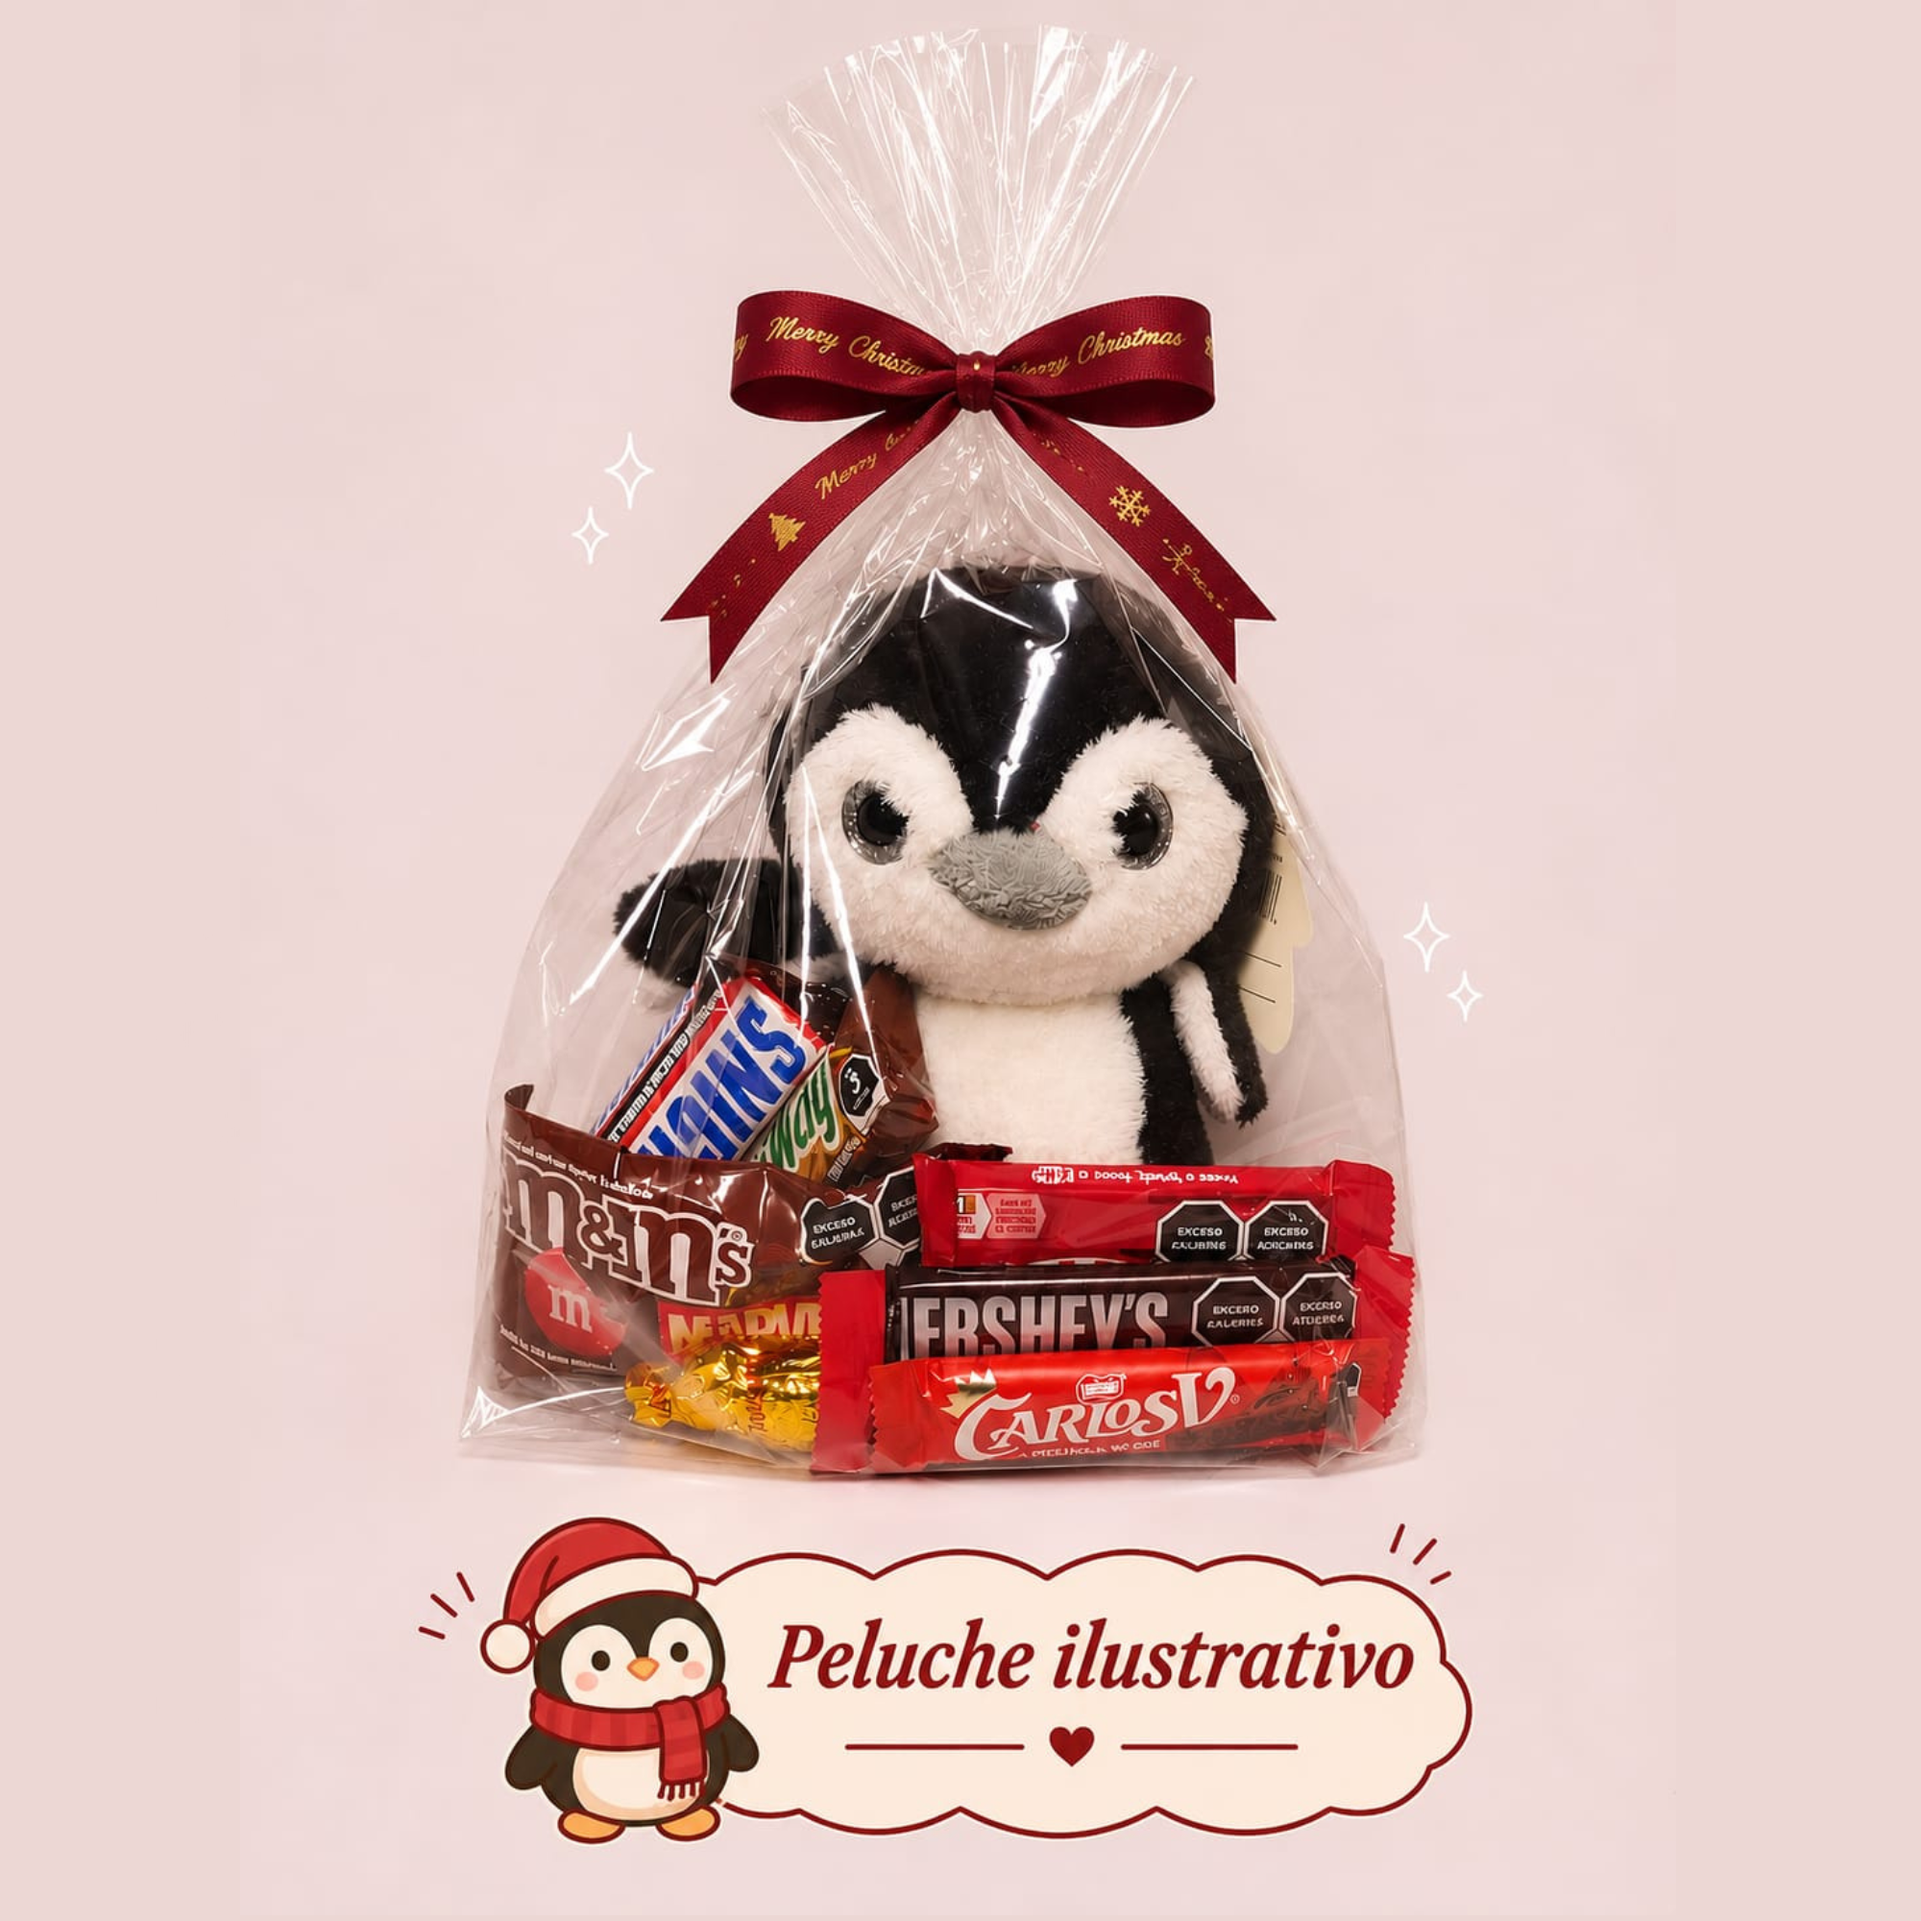
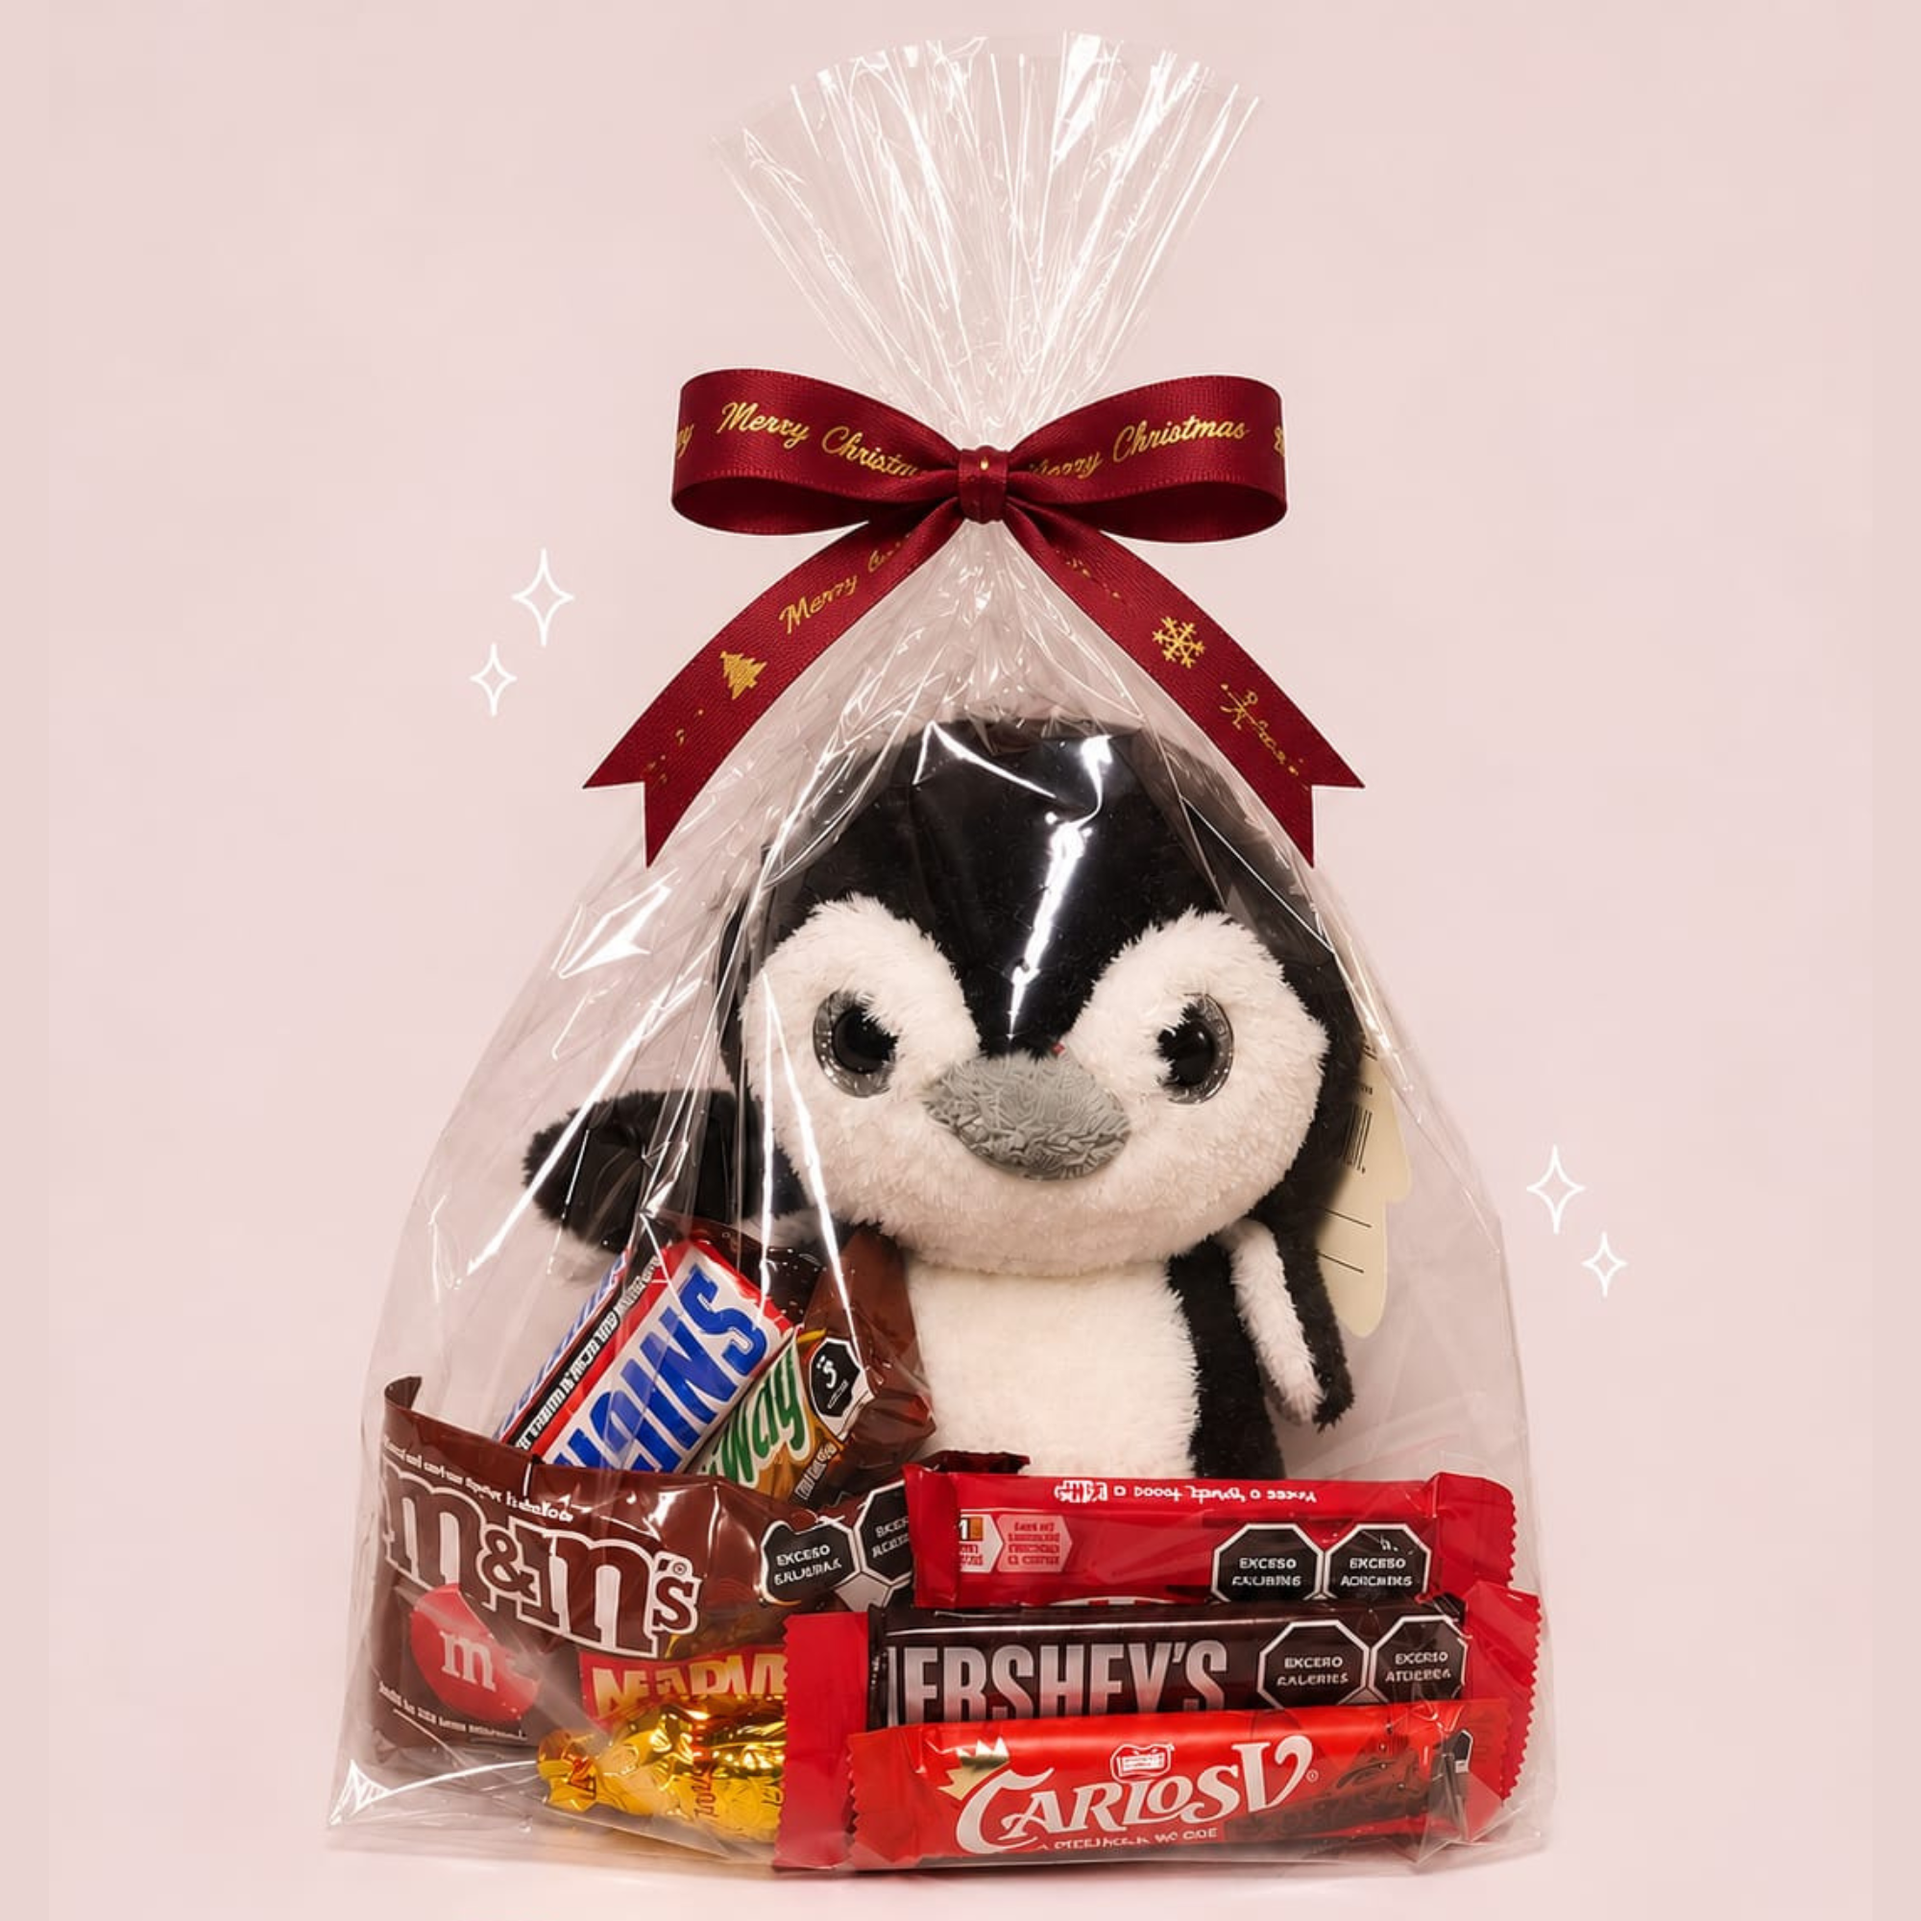
Actualiza fotografias de Evermore

diff --git a/index.html b/index.html
@@ -252,7 +252,7 @@ const PRODUCTS = {
   ],
   bolos: [
     {id:"b1", s:"gift", n:"Bolo original", d:"Incluye todos menos dos tipos de chocolate. Puedes agregar extras.", p:150, t:"Arma el tuyo", build:{excludeChocs:["kinder","hersheyslux"]}, img:["bolooriginal.png"]},
-    {id:"b2", s:"orn", n:"Bolo especial", d:"Incluye todos menos un tipo de chocolate. Puedes agregar extras.", p:190, t:"Arma el tuyo", build:{excludeChocs:["hersheyslux"]}, img:["BoloEspecial.jpeg"]},
+    {id:"b2", s:"orn", n:"Bolo especial", d:"Incluye todos menos un tipo de chocolate. Puedes agregar extras.", p:190, t:"Arma el tuyo", build:{excludeChocs:["hersheyslux"]}, img:["boloespecial.png"]},
     {id:"b3", s:"star", n:"Bolo posada", d:"Incluye 1 chocolate de cada tipo. Puedes agregar extras.", p:240, t:"Arma el tuyo", build:{excludeChocs:[]}, img:["boloposada.png"]},
   ],
   combos: []
